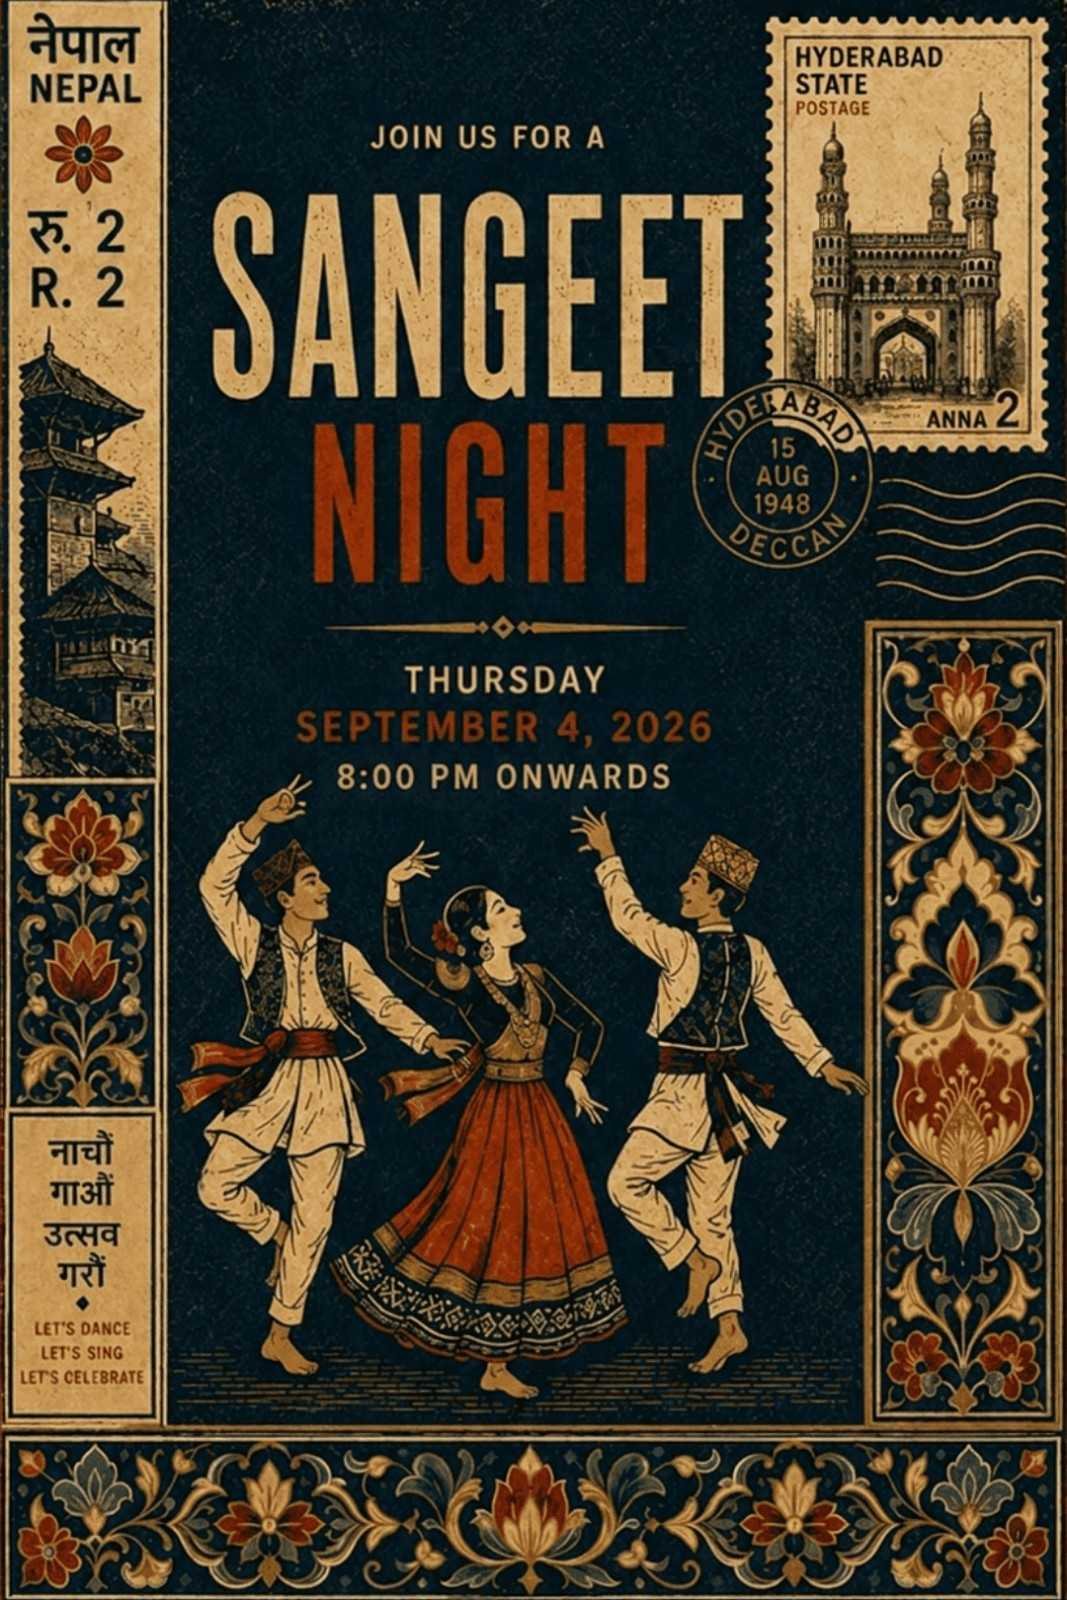
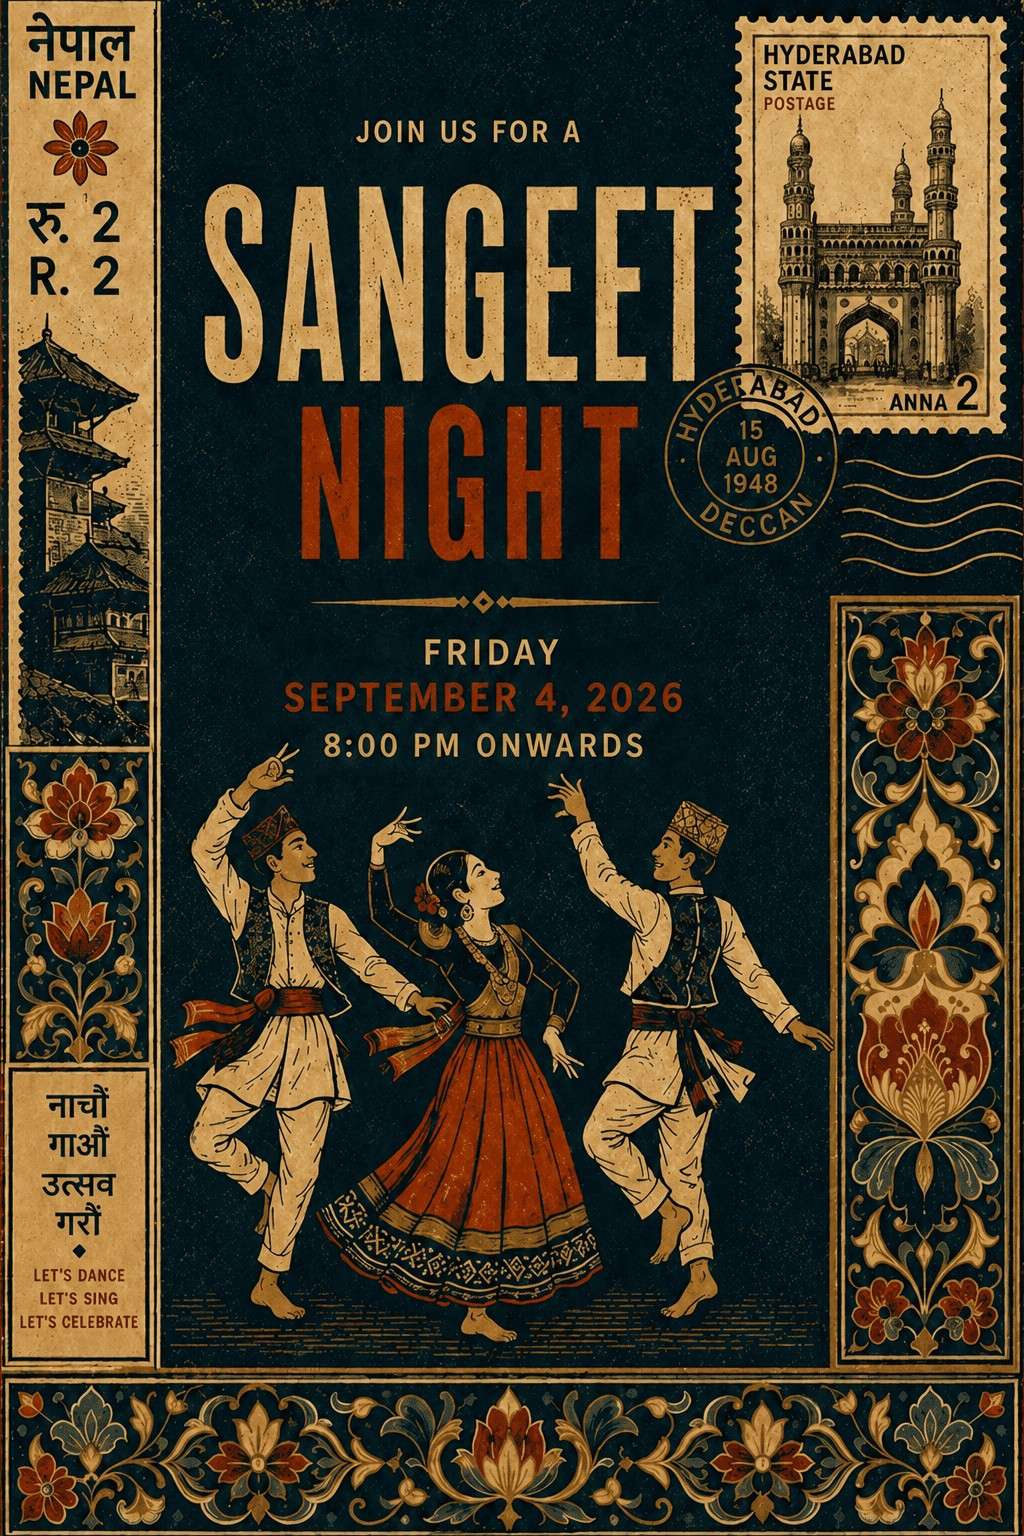
images updated

diff --git a/src/App.tsx b/src/App.tsx
@@ -439,20 +439,20 @@ const STORY_PLAN: { image: string; variant: number; decos: DecoSpec[] }[] = [
     { src: feather, x: -4, y: -30, size: 50, rotate: 12 },
   ]},
   // 3 — Garden
-  { image: story3, variant: 2, decos: [
+  { image: story4, variant: 2, decos: [
     // { src: decoVine,   x: -6,  y: -4,  size: 32, rotate: -15 },
     // { src: decoCherry, x: 64, y: -20,  size: 52, rotate: 10 },
-     { src: decoHibiscus, x: -16, y: 88, size: 35, rotate: -18 },
-     { src: ornpearl, x: 50, y: -20, size: 150, rotate: 0 },
-  ]},
-  // 4 — Sunlit / gold
-  { image: story4, variant: 7, decos: [
     { src: swan, x: 46, y: -35, size: 70, rotate: 0 },
     { src: orntassle, x: -6, y: 100, size: 30, rotate: 0 },
   ]},
-  // 5 — Romantic
-  { image: story5, variant: 4, decos: [
-    { src: pigeon, x: -14,  y: -52,   size: 68, rotate: -5 },
+  // 4 — Sunlit / gold
+  { image: story3, variant: 7, decos: [
+      { src: decoHibiscus, x: -16, y: 88, size: 35, rotate: -18 },
+    ]},
+    // 5 — Romantic
+    { image: story5, variant: 4, decos: [
+    { src: ornpearl, x: 50, y: -20, size: 150, rotate: 0 },
+    // { src: pigeon, x: -14,  y: -52,   size: 68, rotate: -5 },
     { src: decoCherry,   x:50, y: 76, size: 68, rotate: -15 },
   ]},
   // 6 — Regal